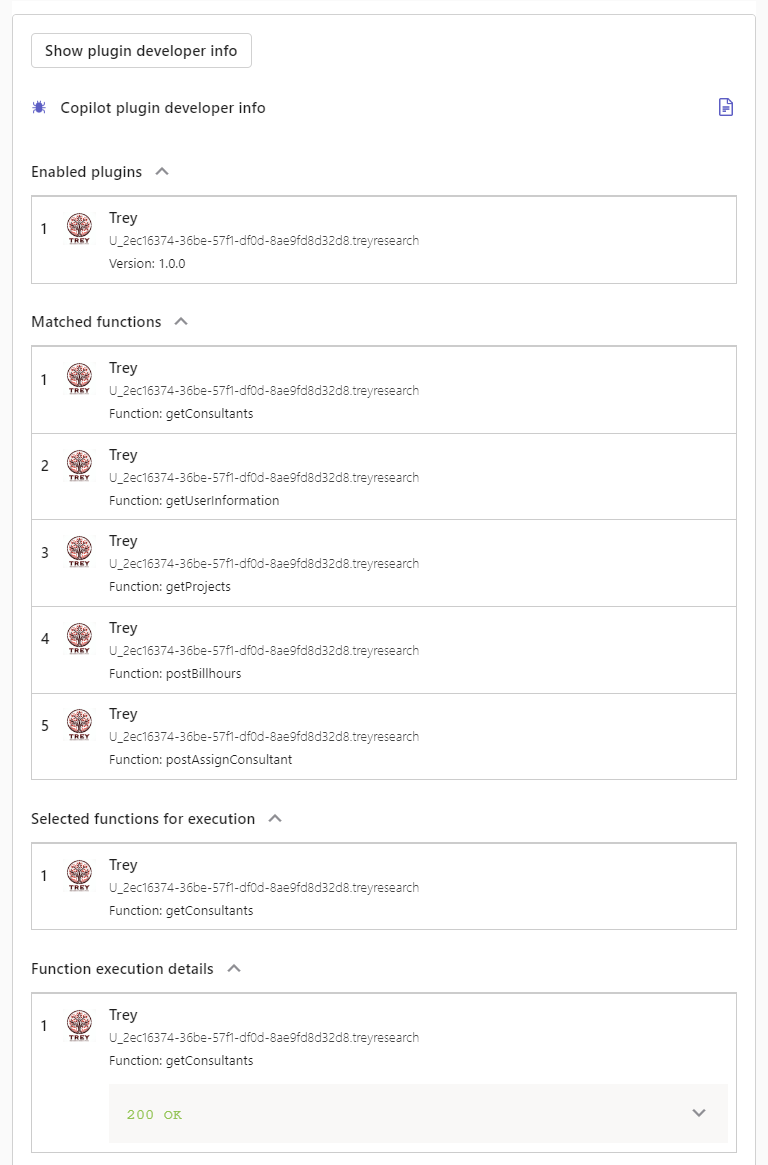
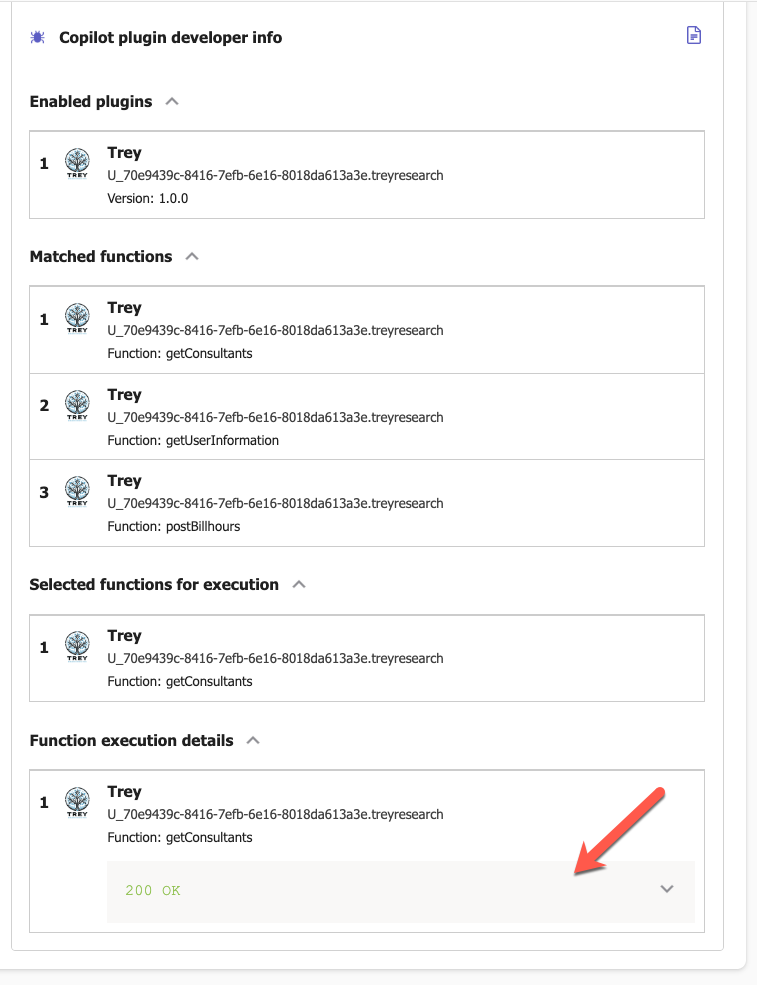
resolves #364

diff --git a/docs/pages/extend-m365-copilot/03-add-declarative-agent.md b/docs/pages/extend-m365-copilot/03-add-declarative-agent.md
@@ -314,18 +314,22 @@ To enable developer mode, enter this prompt into Copilot:
 -developer on
 ~~~
 
-Then when you issue a prompt, Copilot will include an adaptive card at the end of its response with the words "Show plugin developer info".
+Then when you issue a prompt, Copilot will include an adaptive card at the end of its response with the words "Show plugin developer info". 
 
 ![Developer mode](../../assets/images/extend-m365-copilot-04/devmode1.png)
 
-Try this, and then click the box. You should see a breakdown of Copilot's processing.
+If you expand by selecting the "Show plugin developer info" button , you will find details like enabled plugins that the agent can use, the matched functions and selected function that is used in the response sent by the agent. 
 
 !!! note
     This screen shot includes functions you won't add until the next lab.
 
 ![Developer mode](../../assets/images/extend-m365-copilot-04/devmode2.png)
 
-Notice that it includes several sections:
+If you expand the selected function, you will see the execution details of the API/function.
+
+![Developer mode](../../assets/images/extend-m365-copilot-04/devmode3.png)
+
+Summary of developer mode info and their sections:
 
  * Enabled plugins - explains which API plugins are available within your declarative agent
  * Matched functions - shows the available functions in your plugin JSON (**trey-plugin.json** in this case).
